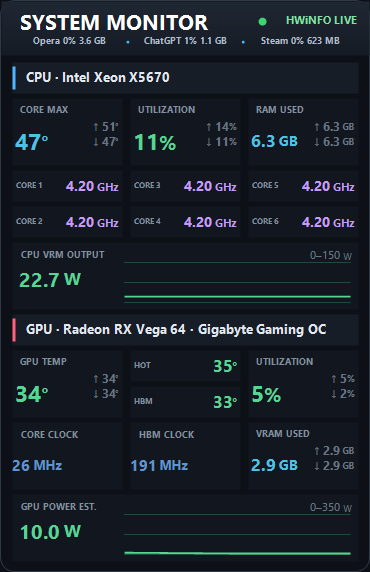
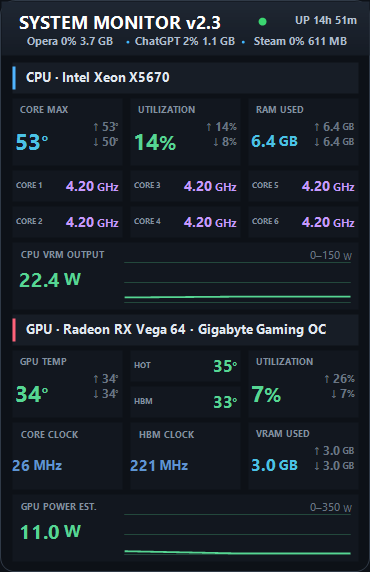
Release SystemMonitorWidget v2.3

diff --git a/src/DashboardEditor.cs b/src/DashboardEditor.cs
@@ -238,8 +238,8 @@ namespace VegaDesktopWidget
         private readonly WidgetConfig config; private readonly List<SensorReading> readings; private readonly List<SensorChoice> choices;
         private readonly DashboardCanvas canvas = new DashboardCanvas(); private readonly SplitContainer split = new SplitContainer(); private readonly ComboBox layoutChoice = new ComboBox(), sensorChoice = new ComboBox(), typeChoice = new ComboBox();
         private readonly TextBox displayName = new TextBox(); private readonly NumericUpDown dashboardRows = Number(4, 30, 14), row = Number(1, 30, 1), column = Number(1, 4, 1), columnSpan = Number(1, 4, 1), graphMin = Number(-100000, 100000, 0), graphMax = Number(-100000, 100000, 100);
-        private readonly CheckBox extrema = new CheckBox(); private readonly NumericUpDown[] thresholds = new NumericUpDown[4]; private readonly Button[] colorButtons = new Button[5];
-        private readonly Label placementStatus = new Label(); private bool loading; private int editorColumns = 4;
+        private readonly CheckBox extrema = new CheckBox(), showUnit = new CheckBox(); private readonly NumericUpDown[] thresholds = new NumericUpDown[4]; private readonly Button[] colorButtons = new Button[5];
+        private readonly ComboBox valueDecimals = new ComboBox(); private readonly Label formatPreview = new Label(), placementStatus = new Label(); private bool loading; private int editorColumns = 4;
 
         public DashboardEditorControl(WidgetConfig working, List<SensorReading> available)
         {
@@ -281,6 +281,9 @@ namespace VegaDesktopWidget
             AddRow(table, "Display name", displayName); displayName.MaxLength = 36;
             sensorChoice.DropDownStyle = ComboBoxStyle.DropDown; sensorChoice.AutoCompleteMode = AutoCompleteMode.SuggestAppend; sensorChoice.AutoCompleteSource = AutoCompleteSource.ListItems; sensorChoice.DropDownWidth = 850; foreach (SensorChoice choice in choices) sensorChoice.Items.Add(choice); AddRow(table, "Sensor", sensorChoice);
             typeChoice.DropDownStyle = ComboBoxStyle.DropDownList; typeChoice.Items.AddRange(new object[] { "Big metric", "Horizontal spec", "Vertical spec", "Graph", "Section heading" }); AddRow(table, "Box type", typeChoice);
+            Heading(table, "VALUE FORMAT"); valueDecimals.DropDownStyle = ComboBoxStyle.DropDownList; valueDecimals.Items.AddRange(new object[] { "Automatic", "0 decimals", "1 decimal", "2 decimals" }); AddRow(table, "Decimals", valueDecimals);
+            showUnit.Text = "Show sensor unit"; showUnit.AutoSize = true; AddRow(table, "Unit", showUnit);
+            formatPreview.AutoSize = true; formatPreview.Font = new Font("Segoe UI", 10f, FontStyle.Bold); formatPreview.ForeColor = Color.FromArgb(45, 112, 190); AddRow(table, "Preview", formatPreview);
             Heading(table, "POSITION & SIZE"); AddRow(table, "Column", column); AddRow(table, "Half-row", row); AddRow(table, "Width (cells)", columnSpan);
             extrema.Text = "Show minimum / maximum"; extrema.AutoSize = true; AddRow(table, "", extrema);
             Heading(table, "GRAPH RANGE"); AddRow(table, "Minimum", graphMin); AddRow(table, "Maximum", graphMax);
@@ -298,6 +301,7 @@ namespace VegaDesktopWidget
             displayName.TextChanged += delegate { PropertyChanged(); }; sensorChoice.SelectedIndexChanged += delegate { PropertyChanged(); }; typeChoice.SelectedIndexChanged += delegate { TypeChanged(); };
             row.ValueChanged += delegate { PositionChanged(); }; column.ValueChanged += delegate { PositionChanged(); }; columnSpan.ValueChanged += delegate { PositionChanged(); };
             extrema.CheckedChanged += delegate { PropertyChanged(); }; graphMin.ValueChanged += delegate { PropertyChanged(); }; graphMax.ValueChanged += delegate { PropertyChanged(); };
+            valueDecimals.SelectedIndexChanged += delegate { PropertyChanged(); }; showUnit.CheckedChanged += delegate { PropertyChanged(); };
             return panel;
         }
 
@@ -348,15 +352,16 @@ namespace VegaDesktopWidget
         private void LoadSelected()
         {
             loading = true; DashboardItem item = canvas.SelectedItem; bool enabled = item != null;
-            displayName.Enabled = sensorChoice.Enabled = typeChoice.Enabled = row.Enabled = column.Enabled = columnSpan.Enabled = extrema.Enabled = graphMin.Enabled = graphMax.Enabled = enabled;
+            displayName.Enabled = sensorChoice.Enabled = typeChoice.Enabled = row.Enabled = column.Enabled = columnSpan.Enabled = extrema.Enabled = graphMin.Enabled = graphMax.Enabled = valueDecimals.Enabled = showUnit.Enabled = enabled;
             foreach (NumericUpDown threshold in thresholds) if (threshold != null) threshold.Enabled = enabled;
             foreach (Button button in colorButtons) if (button != null) button.Enabled = enabled;
-            if (!enabled) { displayName.Text = ""; placementStatus.Text = "Select a component or click + Add."; loading = false; return; }
+            if (!enabled) { displayName.Text = ""; formatPreview.Text = "—"; placementStatus.Text = "Select a component or click + Add."; loading = false; return; }
             displayName.Text = item.DisplayName; typeChoice.SelectedIndex = (int)item.BoxType; row.Value = Clamp(row, item.Row + 1); column.Value = Clamp(column, item.Column + 1); columnSpan.Value = Clamp(columnSpan, item.ColumnSpan); extrema.Checked = item.ShowExtrema;
             graphMin.Value = Clamp(graphMin, (decimal)item.GraphMinimum); graphMax.Value = Clamp(graphMax, (decimal)item.GraphMaximum);
+            valueDecimals.SelectedIndex = Math.Max(0, Math.Min(3, item.ValueDecimals + 1)); showUnit.Checked = item.ShowUnit;
             SelectSensor(item); for (int i = 0; i < 4; i++) thresholds[i].Value = Clamp(thresholds[i], (decimal)item.Thresholds[i]);
             for (int i = 0; i < 5; i++) SetColorButton(i, Color.FromArgb(item.Colors[i]));
-            UpdateVisibility(item); placementStatus.Text = ""; loading = false;
+            UpdateVisibility(item); UpdateFormatPreview(item); placementStatus.Text = ""; loading = false;
         }
 
         private void SelectSensor(DashboardItem item)
@@ -393,6 +398,7 @@ namespace VegaDesktopWidget
             for (int i = 0; i < 4; i++) item.Thresholds[i] = (double)thresholds[i].Value;
             SensorChoice choice = sensorChoice.SelectedItem as SensorChoice;
             if (choice != null && item.BoxType != DashboardBoxType.Section) { item.SensorKey = choice.Key; item.SensorLabel = choice.Label; item.SensorName = choice.SensorName; }
+            item.ValueDecimals = Math.Max(-1, valueDecimals.SelectedIndex - 1); item.ShowUnit = showUnit.Checked; UpdateFormatPreview(item);
             canvas.Invalidate();
         }
 
@@ -403,9 +409,15 @@ namespace VegaDesktopWidget
 
         private void UpdateVisibility(DashboardItem item)
         {
-            bool graph = item.BoxType == DashboardBoxType.Graph; graphMin.Enabled = graph; graphMax.Enabled = graph; columnSpan.Enabled = graph || item.BoxType == DashboardBoxType.Section; extrema.Enabled = item.BoxType == DashboardBoxType.Big; sensorChoice.Enabled = item.BoxType != DashboardBoxType.Section;
+            bool section = item.BoxType == DashboardBoxType.Section, graph = item.BoxType == DashboardBoxType.Graph; graphMin.Enabled = graph; graphMax.Enabled = graph; columnSpan.Enabled = graph || section; extrema.Enabled = item.BoxType == DashboardBoxType.Big; sensorChoice.Enabled = valueDecimals.Enabled = showUnit.Enabled = !section;
         }
 
+        private void UpdateFormatPreview(DashboardItem item)
+        {
+            if (item == null || item.BoxType == DashboardBoxType.Section) { formatPreview.Text = "—"; return; }
+            if (item.SensorKey == "__RAM_USED__") { formatPreview.Text = SensorValueFormatter.FormatValue(6.3, "GB", item.ValueDecimals, item.ShowUnit); return; }
+            SensorChoice choice = sensorChoice.SelectedItem as SensorChoice; formatPreview.Text = SensorValueFormatter.FormatReading(choice == null ? null : choice.Reading, item.ValueDecimals, item.ShowUnit);
+        }
         private List<DashboardItem> CurrentItems() { return editorColumns == 3 ? config.Dashboard3 : config.Dashboard4; }
         private static Button ButtonFor(string text, int x) { Button button = new Button(); button.Text = text; button.Location = new Point(x, 9); button.Size = new Size(text == "Reset layout" ? 108 : 92, 29); return button; }
         private static NumericUpDown Number(decimal minimum, decimal maximum, decimal value) { NumericUpDown control = new NumericUpDown(); control.Minimum = minimum; control.Maximum = maximum; control.DecimalPlaces = minimum < 0 || maximum > 1000 ? 2 : 0; control.Value = Math.Max(minimum, Math.Min(maximum, value)); control.Width = 115; return control; }

diff --git a/src/WidgetFormV2.cs b/src/WidgetFormV2.cs
@@ -5,12 +5,15 @@ using System.Drawing;
 using System.Drawing.Drawing2D;
 using System.Globalization;
 using System.IO;
+using System.Runtime.InteropServices;
 using System.Windows.Forms;
 
 namespace VegaDesktopWidget
 {
     internal sealed class WidgetForm : Form
     {
+        [DllImport("kernel32.dll")]
+        private static extern ulong GetTickCount64();
         private const int DashboardTop = 62, SlotHeight = 31, RowGap = 5, ColumnGap = 8, BottomPadding = 11;
         private readonly HWiNFOReader reader = new HWiNFOReader();
         private readonly Timer timer = new Timer();
@@ -111,12 +114,19 @@ namespace VegaDesktopWidget
         private void DrawHeader(Graphics g)
         {
             using (LinearGradientBrush b = new LinearGradientBrush(new Rectangle(1, 1, CanvasWidth - 2, 54), Color.FromArgb(31, 39, 51), Color.FromArgb(21, 27, 36), 90f)) g.FillRectangle(b, 1, 1, CanvasWidth - 2, 54);
-            DrawText(g, "SYSTEM MONITOR", 16, FontStyle.Bold, Color.White, new RectangleF(16, 10, CanvasWidth - 150, 24), StringAlignment.Near);
+            DrawTextFit(g, config.HeaderTitle, 13.5f, 9f, FontStyle.Bold, Color.White, new RectangleF(16, 10, CanvasWidth - 150, 24), StringAlignment.Near);
             bool live = readings.Count > 0; using (SolidBrush dot = new SolidBrush(live ? Color.FromArgb(59, 214, 113) : Color.FromArgb(255, 184, 77))) g.FillEllipse(dot, CanvasWidth - 112, 17, 8, 8);
-            DrawText(g, live ? "HWiNFO LIVE" : "HWiNFO WAIT", 8, FontStyle.Bold, live ? Color.FromArgb(126, 230, 163) : Color.FromArgb(255, 199, 102), new RectangleF(CanvasWidth - 98, 12, 86, 18), StringAlignment.Far);
+            DrawText(g, FormatSystemUptime(), 8, FontStyle.Bold, Color.FromArgb(180, 194, 210), new RectangleF(CanvasWidth - 98, 12, 86, 18), StringAlignment.Far);
             DrawProcessStrip(g, new RectangleF(12, 34, CanvasWidth - 24, 14));
         }
 
+        private static string FormatSystemUptime()
+        {
+            TimeSpan uptime = TimeSpan.FromMilliseconds(GetTickCount64());
+            if (uptime.TotalDays >= 1) return "UP " + (int)uptime.TotalDays + "d " + uptime.Hours + "h";
+            if (uptime.TotalHours >= 1) return "UP " + (int)uptime.TotalHours + "h " + uptime.Minutes + "m";
+            return "UP " + Math.Max(0, uptime.Minutes) + "m";
+        }
         private void DrawProcessStrip(Graphics g, RectangleF area)
         {
             if (config.ProcessStripMode == 0) return;
@@ -130,7 +140,7 @@ namespace VegaDesktopWidget
             for (int i = 0; i < count; i++)
             {
                 RectangleF cell = new RectangleF(area.X + i * cellWidth + 3, area.Y, cellWidth - 6, area.Height);
-                DrawTextFit(g, topProcesses[i].CompactText, 7f, 5.5f, FontStyle.Bold, Color.FromArgb(173, 188, 207), cell, StringAlignment.Center);
+                DrawTextFit(g, topProcesses[i].CompactText, 8.2f, 6.25f, FontStyle.Bold, Color.FromArgb(173, 188, 207), cell, StringAlignment.Center);
                 if (i < count - 1) using (SolidBrush dot = new SolidBrush(Color.FromArgb(64, 183, 255))) g.FillEllipse(dot, area.X + (i + 1) * cellWidth - 1.5f, area.Y + 6f, 3f, 3f);
             }
         }
@@ -156,7 +166,7 @@ namespace VegaDesktopWidget
                 if (item.BoxType == DashboardBoxType.Section) { DrawSection(g, r, item); continue; }
                 SensorReading reading = Resolve(item); double? raw = ItemValue(item);
                 Color color = raw.HasValue ? item.ColorFor(raw.Value) : Color.FromArgb(85, 96, 110);
-                string value = item.SensorKey == "__RAM_USED__" ? (ramAvailable ? ramUsed.ToString("0.0", CultureInfo.InvariantCulture) + " GB" : "—") : Format(reading);
+                string value = item.SensorKey == "__RAM_USED__" ? (ramAvailable ? SensorValueFormatter.FormatValue(ramUsed, "GB", item.ValueDecimals, item.ShowUnit) : "—") : SensorValueFormatter.FormatReading(reading, item.ValueDecimals, item.ShowUnit);
                 string label = String.IsNullOrWhiteSpace(item.DisplayName) ? (reading == null ? "UNASSIGNED" : reading.Label.ToUpperInvariant()) : item.DisplayName.Trim().ToUpperInvariant();
                 if (item.BoxType == DashboardBoxType.Big)
                 {
@@ -169,7 +179,7 @@ namespace VegaDesktopWidget
                 else if (item.BoxType == DashboardBoxType.Graph)
                 {
                     List<double> values = null; if (config.ShowGraphs) history.TryGetValue(item.Id, out values);
-                    string unit = reading == null || reading.Unit == null ? "" : reading.Unit.Trim();
+                    string unit = !item.ShowUnit || reading == null || reading.Unit == null ? "" : reading.Unit.Trim();
                     string range = FormatRange(item.GraphMinimum, item.GraphMaximum, unit);
                     components.DrawGraphBox(g, r, label, value, range, color, values, item.GraphMinimum, item.GraphMaximum);
                 }
@@ -201,27 +211,14 @@ namespace VegaDesktopWidget
         private string FormatExtrema(DashboardItem item, SensorReading reading, MetricExtrema range, bool maximum)
         {
             if (range == null || !range.HasValue) return "—"; double value = maximum ? range.Maximum : range.Minimum;
-            if (item.SensorKey == "__RAM_USED__") return value.ToString("0.0", CultureInfo.InvariantCulture) + " GB";
-            return FormatValue(value, reading == null ? "" : reading.Unit);
+            if (item.SensorKey == "__RAM_USED__") return SensorValueFormatter.FormatValue(value, "GB", item.ValueDecimals, item.ShowUnit);
+            return SensorValueFormatter.FormatValue(value, reading == null ? "" : reading.Unit, item.ValueDecimals, item.ShowUnit);
         }
 
         private static string FormatRange(double minimum, double maximum, string unit)
         {
             string suffix = String.IsNullOrWhiteSpace(unit) ? "" : " " + unit.Trim();
             return minimum.ToString("0.##", CultureInfo.InvariantCulture) + "–" + maximum.ToString("0.##", CultureInfo.InvariantCulture) + suffix;
-        }
-
-        private static string Format(SensorReading reading) { return reading == null || Double.IsNaN(reading.Value) || Double.IsInfinity(reading.Value) ? "—" : FormatValue(reading.Value, reading.Unit); }
-        private static string FormatValue(double value, string unit)
-        {
-            string u = unit == null ? "" : unit.Trim();
-            if (u.Equals("°C", StringComparison.OrdinalIgnoreCase)) return Math.Round(value).ToString("0") + "°";
-            if (u == "%") return Math.Round(value).ToString("0") + "%";
-            if (u.Equals("MHz", StringComparison.OrdinalIgnoreCase)) return value >= 1000 ? (value / 1000.0).ToString("0.00", CultureInfo.InvariantCulture) + " GHz" : Math.Round(value).ToString("0") + " MHz";
-            if (u.Equals("MB", StringComparison.OrdinalIgnoreCase) && value >= 1024) return (value / 1024.0).ToString("0.0", CultureInfo.InvariantCulture) + " GB";
-            if (u == "W") return value.ToString(value < 100 ? "0.0" : "0", CultureInfo.InvariantCulture) + " W";
-            if (u == "RPM") return Math.Round(value).ToString("0") + " RPM";
-            return value.ToString(Math.Abs(value) < 10 ? "0.00" : "0", CultureInfo.InvariantCulture) + (u.Length > 0 ? " " + u : "");
         }
 
         private static void DrawText(Graphics g, string text, float size, FontStyle style, Color color, RectangleF area, StringAlignment align)

diff --git a/src/WidgetConfigV2.cs b/src/WidgetConfigV2.cs
@@ -8,8 +8,10 @@ namespace VegaDesktopWidget
 {
     internal sealed class WidgetConfig
     {
+        public static string DefaultHeaderTitle { get { Version version = System.Reflection.Assembly.GetExecutingAssembly().GetName().Version; return "SYSTEM MONITOR v" + version.Major + "." + version.Minor; } }
         public int Left = 60, Top = 60, Width = 370, UiScaleMode = 100, GridColumns = 4, RefreshMilliseconds = 1000, OpacityPercent = 96;
         public int ProcessStripMode = 2;
+        public string HeaderTitle = DefaultHeaderTitle;
         public int CpuGraphMin = 0, CpuGraphMax = 150, GpuGraphMin = 0, GpuGraphMax = 350;
         public bool AlwaysOnTop = false, ShowGraphs = true, LaunchHWiNFO = false;
         public Dictionary<string, string> RoleKeys = new Dictionary<string, string>(StringComparer.OrdinalIgnoreCase);
@@ -40,6 +42,7 @@ namespace VegaDesktopWidget
                 else if (k.Equals("RefreshMilliseconds", StringComparison.OrdinalIgnoreCase) && Int32.TryParse(v, out n)) c.RefreshMilliseconds = Math.Max(500, Math.Min(5000, n));
                 else if (k.Equals("OpacityPercent", StringComparison.OrdinalIgnoreCase) && Int32.TryParse(v, out n)) c.OpacityPercent = Math.Max(65, Math.Min(100, n));
                 else if (k.Equals("ProcessStripMode", StringComparison.OrdinalIgnoreCase) && Int32.TryParse(v, out n) && n >= 0 && n <= 2) c.ProcessStripMode = n;
+                else if (k.Equals("HeaderTitle", StringComparison.OrdinalIgnoreCase)) { string title = NormalizeHeaderTitle(v); c.HeaderTitle = IsVersionedDefaultHeaderTitle(title) ? DefaultHeaderTitle : title; }
                 else if (k.Equals("CpuGraphMin", StringComparison.OrdinalIgnoreCase) && Int32.TryParse(v, out n)) c.CpuGraphMin = Math.Max(0, n);
                 else if (k.Equals("CpuGraphMax", StringComparison.OrdinalIgnoreCase) && Int32.TryParse(v, out n)) c.CpuGraphMax = Math.Max(1, n);
                 else if (k.Equals("GpuGraphMin", StringComparison.OrdinalIgnoreCase) && Int32.TryParse(v, out n)) c.GpuGraphMin = Math.Max(0, n);
@@ -67,6 +70,7 @@ namespace VegaDesktopWidget
             l.Add("Left=" + Left.ToString(CultureInfo.InvariantCulture)); l.Add("Top=" + Top.ToString(CultureInfo.InvariantCulture)); l.Add("Width=" + Width.ToString(CultureInfo.InvariantCulture)); l.Add("UiScaleMode=" + UiScaleMode.ToString(CultureInfo.InvariantCulture)); l.Add("GridColumns=" + GridColumns.ToString(CultureInfo.InvariantCulture));
             l.Add("RefreshMilliseconds=" + RefreshMilliseconds.ToString(CultureInfo.InvariantCulture)); l.Add("OpacityPercent=" + OpacityPercent.ToString(CultureInfo.InvariantCulture));
             l.Add("ProcessStripMode=" + ProcessStripMode.ToString(CultureInfo.InvariantCulture));
+            l.Add("HeaderTitle=" + NormalizeHeaderTitle(HeaderTitle));
             l.Add("CpuGraphMin=" + CpuGraphMin); l.Add("CpuGraphMax=" + CpuGraphMax); l.Add("GpuGraphMin=" + GpuGraphMin); l.Add("GpuGraphMax=" + GpuGraphMax);
             l.Add("AlwaysOnTop=" + AlwaysOnTop); l.Add("ShowGraphs=" + ShowGraphs); l.Add("LaunchHWiNFO=" + LaunchHWiNFO);
             l.Add("DashboardRows3=" + DashboardRows3); l.Add("DashboardRows4=" + DashboardRows4);
@@ -78,6 +82,8 @@ namespace VegaDesktopWidget
         }
         public List<DashboardItem> ActiveDashboard { get { return GridColumns == 3 ? Dashboard3 : Dashboard4; } }
         public int ActiveDashboardRows { get { return GridColumns == 3 ? DashboardRows3 : DashboardRows4; } }
+        public static string NormalizeHeaderTitle(string value) { string title = (value ?? "").Replace("\r", " ").Replace("\n", " ").Trim(); if (title.Length == 0) return DefaultHeaderTitle; return title.Length > 48 ? title.Substring(0, 48) : title; }
+        private static bool IsVersionedDefaultHeaderTitle(string value) { Version version; const string prefix = "SYSTEM MONITOR v"; return value != null && value.StartsWith(prefix, StringComparison.OrdinalIgnoreCase) && Version.TryParse(value.Substring(prefix.Length), out version); }
         public void SetDashboardRows(int columns, int rows) { if (columns == 3) DashboardRows3 = rows; else DashboardRows4 = rows; }
         public static bool IsStartupEnabled() { using (RegistryKey k = Registry.CurrentUser.OpenSubKey("Software\\Microsoft\\Windows\\CurrentVersion\\Run", false)) return k != null && k.GetValue("VegaDesktopWidget") != null; }
         public static void SetStartup(bool enabled) { using (RegistryKey k = Registry.CurrentUser.CreateSubKey("Software\\Microsoft\\Windows\\CurrentVersion\\Run")) { if (enabled) k.SetValue("VegaDesktopWidget", "\"" + System.Windows.Forms.Application.ExecutablePath + "\""); else k.DeleteValue("VegaDesktopWidget", false); } }

diff --git a/src/SettingsFormV2.cs b/src/SettingsFormV2.cs
@@ -11,6 +11,7 @@ namespace VegaDesktopWidget
         private static readonly int[] ScaleModes = new int[] { 100, 75, 67, 50, 33, 25 };
         private CheckBox topmost, graphs, startup, launchHwinfo;
         private NumericUpDown width, opacity, refresh;
+        private TextBox headerTitle;
         private ComboBox uiScale, gridLayout;
         private DashboardEditorControl dashboardEditor;
         public WidgetConfig Result { get { return working; } }
@@ -39,6 +40,7 @@ namespace VegaDesktopWidget
             TableLayoutPanel table = new TableLayoutPanel(); table.Dock = DockStyle.Top; table.AutoSize = true; table.ColumnCount = 2;
             table.ColumnStyles.Add(new ColumnStyle(SizeType.Absolute, 245)); table.ColumnStyles.Add(new ColumnStyle(SizeType.Percent, 100));
             AddHeading(table, "Desktop behavior");
+            headerTitle = AddText(table, "Header title", "Editable title shown on the widget.", working.HeaderTitle, 48);
             topmost = AddCheck(table, "Always on top", "Keep the monitor above normal windows.", working.AlwaysOnTop);
             graphs = AddCheck(table, "Live history graphs", "Draw graph history for graph components.", working.ShowGraphs);
             launchHwinfo = AddCheck(table, "Start HWiNFO if needed", "Use HWiNFO's saved Sensors-only and Auto Start settings.", working.LaunchHWiNFO);
@@ -64,6 +66,7 @@ namespace VegaDesktopWidget
             {
                 string error; if (!dashboardEditor.ValidateDashboard(out error)) { MessageBox.Show(this, error, "Dashboard configuration", MessageBoxButtons.OK, MessageBoxIcon.Warning); return; }
                 working.AlwaysOnTop = topmost.Checked; working.ShowGraphs = graphs.Checked; working.LaunchHWiNFO = launchHwinfo.Checked;
+                working.HeaderTitle = WidgetConfig.NormalizeHeaderTitle(headerTitle.Text);
                 working.UiScaleMode = ScaleModes[Math.Max(0, uiScale.SelectedIndex)]; working.GridColumns = gridLayout.SelectedIndex == 0 ? 3 : 4;
                 working.Width = (int)width.Value; working.OpacityPercent = (int)opacity.Value; working.RefreshMilliseconds = (int)refresh.Value;
                 WidgetConfig.SetStartup(startup.Checked); working.Save(); DialogResult = DialogResult.OK; Close();
@@ -83,6 +86,13 @@ namespace VegaDesktopWidget
             table.Controls.Add(name); table.Controls.Add(control); return control;
         }
 
+        private static TextBox AddText(TableLayoutPanel table, string label, string description, string value, int maximumLength)
+        {
+            Label name = NameLabel(label); FlowLayoutPanel panel = new FlowLayoutPanel(); panel.AutoSize = true; panel.WrapContents = false;
+            TextBox control = new TextBox(); control.Text = value ?? ""; control.MaxLength = maximumLength; control.Width = 285;
+            Label hint = new Label(); hint.Text = description; hint.AutoSize = true; hint.ForeColor = Color.Gray; hint.Margin = new Padding(8, 5, 0, 0);
+            panel.Controls.Add(control); panel.Controls.Add(hint); table.Controls.Add(name); table.Controls.Add(panel); return control;
+        }
         private static NumericUpDown AddNumber(TableLayoutPanel table, string label, string description, int value, int minimum, int maximum, int increment)
         {
             Label name = NameLabel(label); FlowLayoutPanel panel = new FlowLayoutPanel(); panel.AutoSize = true; panel.WrapContents = false;
@@ -112,7 +122,7 @@ namespace VegaDesktopWidget
 
         private static WidgetConfig Clone(WidgetConfig source)
         {
-            WidgetConfig copy = new WidgetConfig(); copy.Left = source.Left; copy.Top = source.Top; copy.Width = source.Width; copy.UiScaleMode = source.UiScaleMode; copy.GridColumns = source.GridColumns;
+            WidgetConfig copy = new WidgetConfig(); copy.Left = source.Left; copy.Top = source.Top; copy.Width = source.Width; copy.UiScaleMode = source.UiScaleMode; copy.GridColumns = source.GridColumns; copy.HeaderTitle = source.HeaderTitle;
             copy.RefreshMilliseconds = source.RefreshMilliseconds; copy.OpacityPercent = source.OpacityPercent; copy.ProcessStripMode = source.ProcessStripMode; copy.AlwaysOnTop = source.AlwaysOnTop; copy.ShowGraphs = source.ShowGraphs; copy.LaunchHWiNFO = source.LaunchHWiNFO;
             copy.CpuGraphMin = source.CpuGraphMin; copy.CpuGraphMax = source.CpuGraphMax; copy.GpuGraphMin = source.GpuGraphMin; copy.GpuGraphMax = source.GpuGraphMax;
             copy.DashboardRows3 = source.DashboardRows3; copy.DashboardRows4 = source.DashboardRows4; copy.Dashboard3.Clear(); copy.Dashboard4.Clear();

diff --git a/src/DashboardModel.cs b/src/DashboardModel.cs
@@ -24,6 +24,8 @@ namespace VegaDesktopWidget
         public double GraphMaximum = 100;
         public double[] Thresholds = new double[] { 20, 40, 60, 80 };
         public int[] Colors = ActivityColors();
+        public int ValueDecimals = -1;
+        public bool ShowUnit = true;
 
         public DashboardItem Clone()
         {
@@ -54,7 +56,7 @@ namespace VegaDesktopWidget
                 Escape(Id), BoxType.ToString(), Escape(SensorKey), Escape(SensorLabel), Escape(SensorName), Escape(DisplayName),
                 Column.ToString(CultureInfo.InvariantCulture), Row.ToString(CultureInfo.InvariantCulture), ColumnSpan.ToString(CultureInfo.InvariantCulture), RowSpan.ToString(CultureInfo.InvariantCulture),
                 ShowExtrema.ToString(), GraphMinimum.ToString("R", CultureInfo.InvariantCulture), GraphMaximum.ToString("R", CultureInfo.InvariantCulture),
-                JoinDoubles(Thresholds), JoinInts(Colors)
+                JoinDoubles(Thresholds), JoinInts(Colors), ValueDecimals.ToString(CultureInfo.InvariantCulture), ShowUnit.ToString()
             });
         }
 
@@ -76,6 +78,8 @@ namespace VegaDesktopWidget
             if (Double.TryParse(p[12], NumberStyles.Float, CultureInfo.InvariantCulture, out d)) item.GraphMaximum = d;
             item.Thresholds = ParseDoubles(p[13], new double[] { 20, 40, 60, 80 });
             item.Colors = ParseInts(p[14], ActivityColors());
+            if (p.Length > 15 && Int32.TryParse(p[15], NumberStyles.Integer, CultureInfo.InvariantCulture, out n)) item.ValueDecimals = Math.Max(-1, Math.Min(2, n));
+            if (p.Length > 16 && Boolean.TryParse(p[16], out flag)) item.ShowUnit = flag;
             if (item.Id.Length == 0) item.Id = Guid.NewGuid().ToString("N");
             return item;
         }
@@ -122,6 +126,31 @@ namespace VegaDesktopWidget
         }
     }
 
+    internal static class SensorValueFormatter
+    {
+        public static string FormatReading(SensorReading reading, int decimals, bool showUnit)
+        {
+            return reading == null || Double.IsNaN(reading.Value) || Double.IsInfinity(reading.Value) ? "—" : FormatValue(reading.Value, reading.Unit, decimals, showUnit);
+        }
+
+        public static string FormatValue(double value, string unit, int decimals, bool showUnit)
+        {
+            string sourceUnit = (unit ?? "").Trim(), displayUnit = sourceUnit; double displayValue = value; int automaticDecimals;
+            if (sourceUnit.Equals("°C", StringComparison.OrdinalIgnoreCase)) { displayUnit = "°"; automaticDecimals = 0; }
+            else if (sourceUnit == "%") automaticDecimals = 0;
+            else if (sourceUnit.Equals("MHz", StringComparison.OrdinalIgnoreCase) && value >= 1000) { displayValue = value / 1000.0; displayUnit = "GHz"; automaticDecimals = 2; }
+            else if (sourceUnit.Equals("MHz", StringComparison.OrdinalIgnoreCase)) automaticDecimals = 0;
+            else if (sourceUnit.Equals("MB", StringComparison.OrdinalIgnoreCase) && value >= 1024) { displayValue = value / 1024.0; displayUnit = "GB"; automaticDecimals = 1; }
+            else if (sourceUnit.Equals("GB", StringComparison.OrdinalIgnoreCase)) automaticDecimals = 1;
+            else if (sourceUnit == "W") automaticDecimals = value < 100 ? 1 : 0;
+            else if (sourceUnit.Equals("RPM", StringComparison.OrdinalIgnoreCase)) automaticDecimals = 0;
+            else automaticDecimals = Math.Abs(value) < 10 ? 2 : 0;
+            int places = decimals < 0 ? automaticDecimals : Math.Max(0, Math.Min(2, decimals));
+            string number = displayValue.ToString(places == 0 ? "0" : places == 1 ? "0.0" : "0.00", CultureInfo.InvariantCulture);
+            if (!showUnit || displayUnit.Length == 0) return number;
+            return number + (displayUnit == "%" || displayUnit == "°" ? displayUnit : " " + displayUnit);
+        }
+    }
     internal static class DashboardDefaults
     {
         public const int Rows = 14;

diff --git a/src/Properties/AssemblyInfo.cs b/src/Properties/AssemblyInfo.cs
@@ -4,5 +4,5 @@ using System.Reflection;
 [assembly: AssemblyDescription("Modular HWiNFO desktop hardware monitor")]
 [assembly: AssemblyCompany("")]
 [assembly: AssemblyProduct("System Monitor Widget")]
-[assembly: AssemblyVersion("2.2.0.0")]
-[assembly: AssemblyFileVersion("2.2.0.0")]
+[assembly: AssemblyVersion("2.3.0.0")]
+[assembly: AssemblyFileVersion("2.3.0.0")]

diff --git a/README.md b/README.md
@@ -16,11 +16,13 @@ A lightweight, modular Windows desktop hardware monitor powered by HWiNFO shared
 
 - Fully configurable 3-column and 4-column dashboards.
 - Optional top-three process strip: hide it, rank by CPU, or rank by RAM while showing aggregated CPU and memory usage.
+- Editable, version-aware header title with compact Windows system uptime.
 - Search and add every sensor exposed through HWiNFO shared memory by label, device, unit, or sensor type.
 - Five reusable component types: Big metric, Horizontal spec, Vertical spec, Graph, and Section.
 - Drag-and-drop placement with grid snapping and overlap prevention.
 - Precise column, half-row, width, and dashboard-height controls.
 - Custom display name for every component.
+- Per-component value formatting with automatic, 0-, 1-, or 2-decimal precision, unit visibility, and a live preview.
 - Five colors and four change thresholds, configured independently per component.
 - Fixed minimum and maximum for every graph.
 - Optional recorded minimum and maximum on Big metric components.
@@ -54,7 +56,7 @@ Run PowerShell from the repository root:
 .\build.ps1
 ```
 
-The compiled executable is written to `artifacts\SystemMonitorWidget-v2.2.exe`.
+The compiled executable is written to `artifacts\SystemMonitorWidget-v2.3.exe`.
 
 ## Local data
 
@@ -62,8 +64,8 @@ Widget settings stay in the current Windows user's local application-data folder
 
 ## Quick start
 
-1. Download `SystemMonitorWidget-v2.2.exe` from the [latest release](../../releases/latest).
+1. Download `SystemMonitorWidget-v2.3.exe` from the [latest release](../../releases/latest).
 2. Open HWiNFO64 settings and enable **Shared Memory Support**.
 3. Start HWiNFO sensors.
-4. Run `SystemMonitorWidget-v2.2.exe`.
+4. Run `SystemMonitorWidget-v2.3.exe`.
 5. Right-click the widget and choose **Configure dashboard** to add sensors, select component types, arrange the grid, and customize colors.
